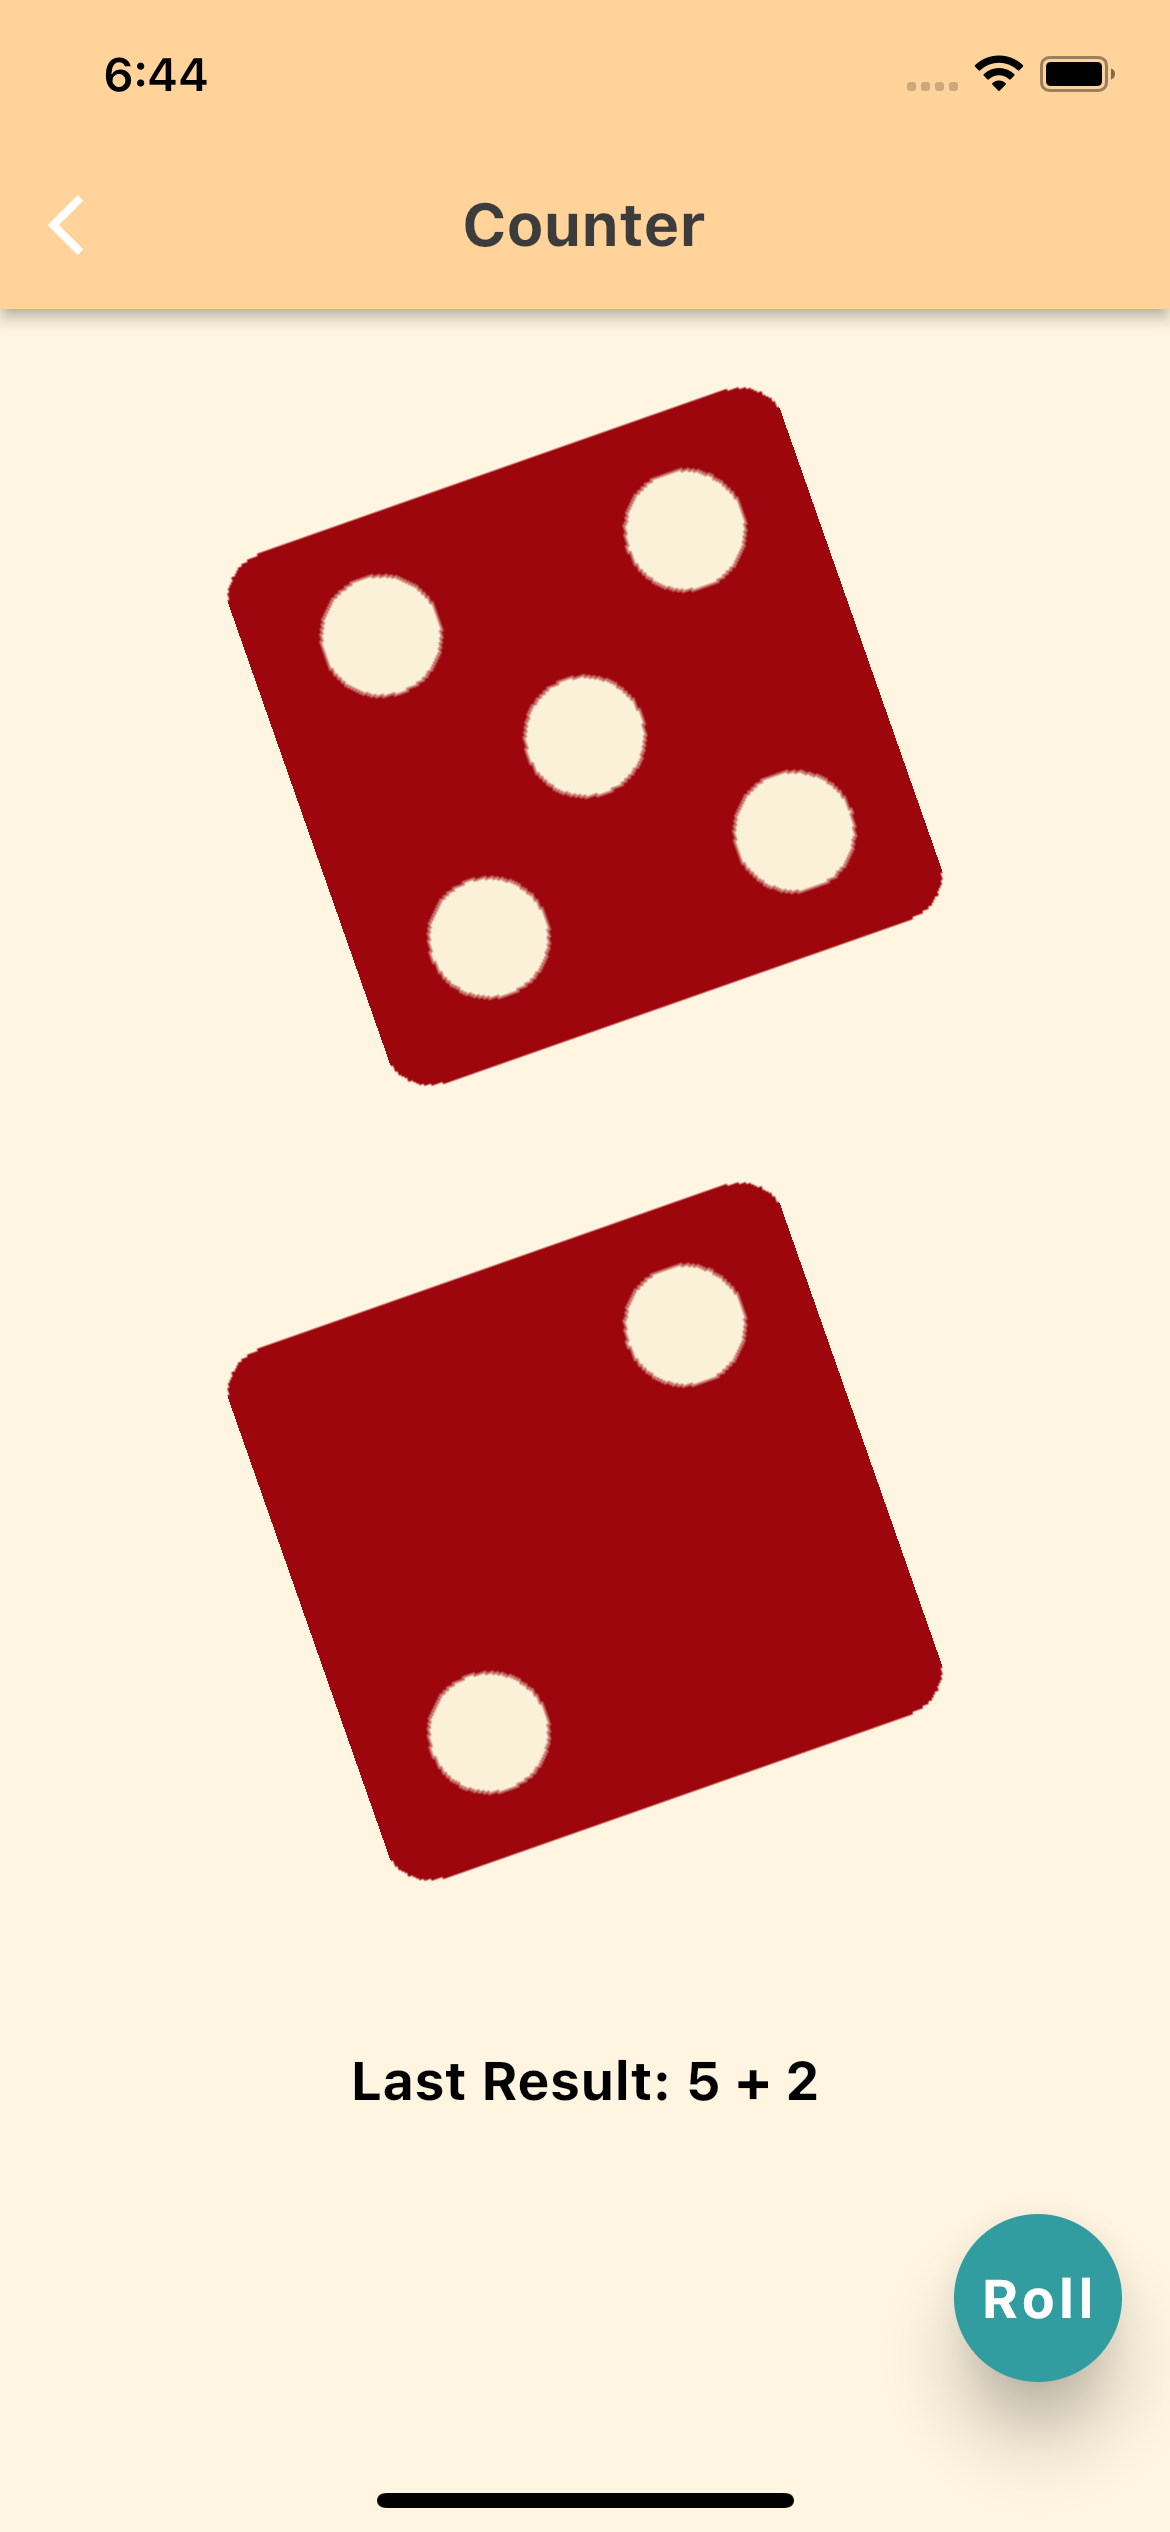
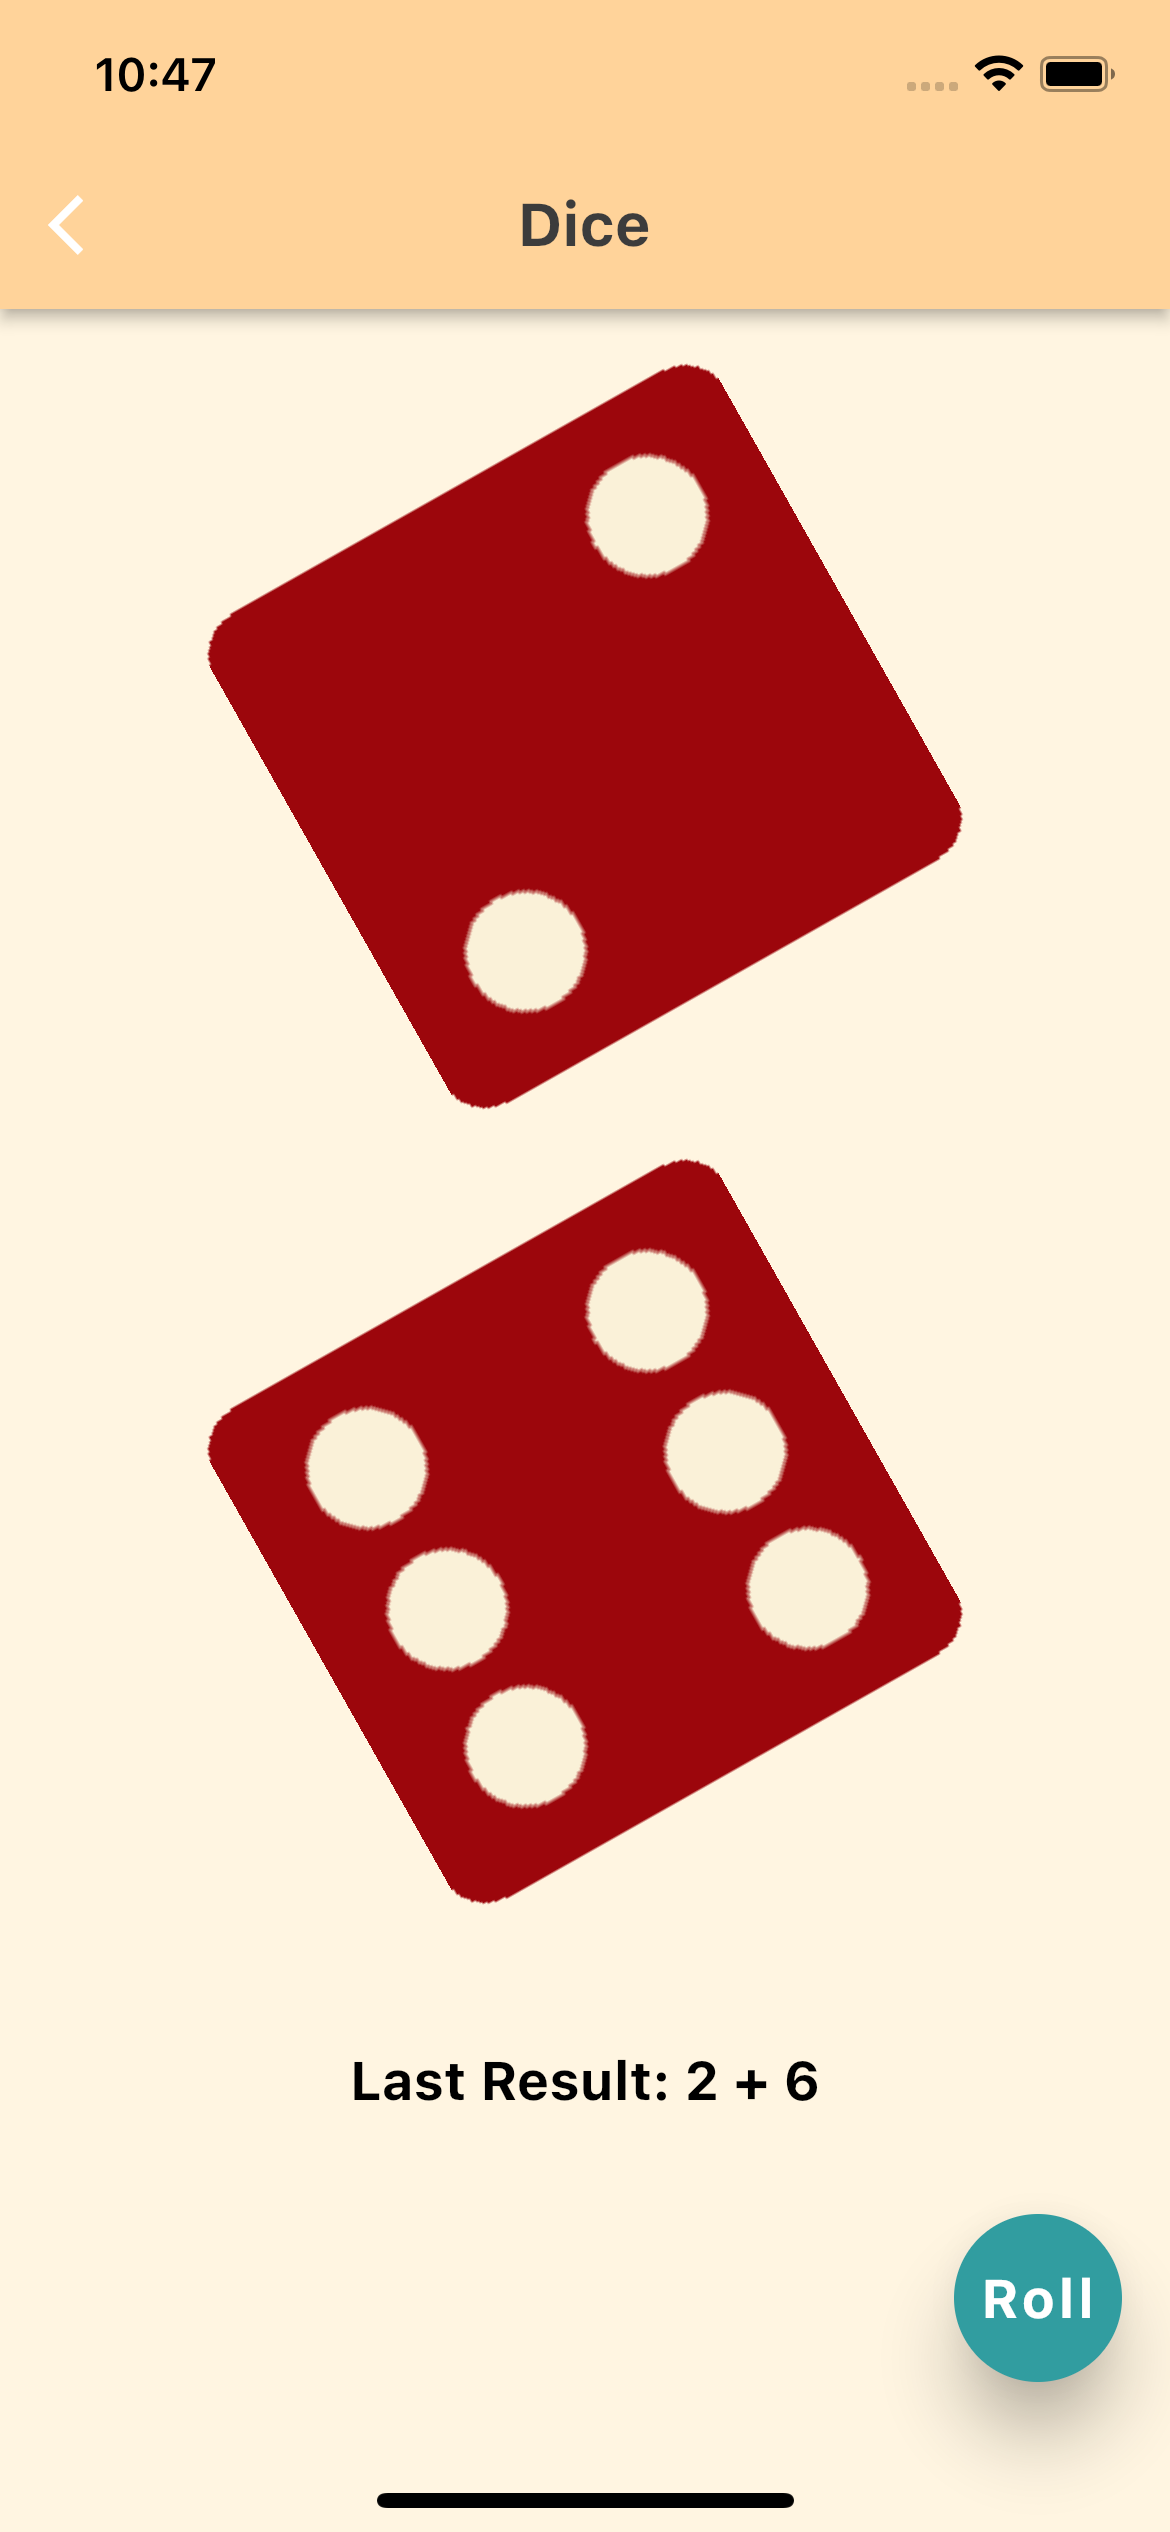
small fix

diff --git a/lib/screens/dice.dart b/lib/screens/dice.dart
@@ -76,7 +76,7 @@ class _DiceState extends State<Dice> with TickerProviderStateMixin {
   @override
   Widget build(BuildContext context) {
     return Scaffold(
-      appBar: AppBar(title: const Text('Counter')),
+      appBar: AppBar(title: const Text('Dice')),
       body: BlocBuilder<DiceCubit, List>(
         builder: (context, state) {
           return ListView(
